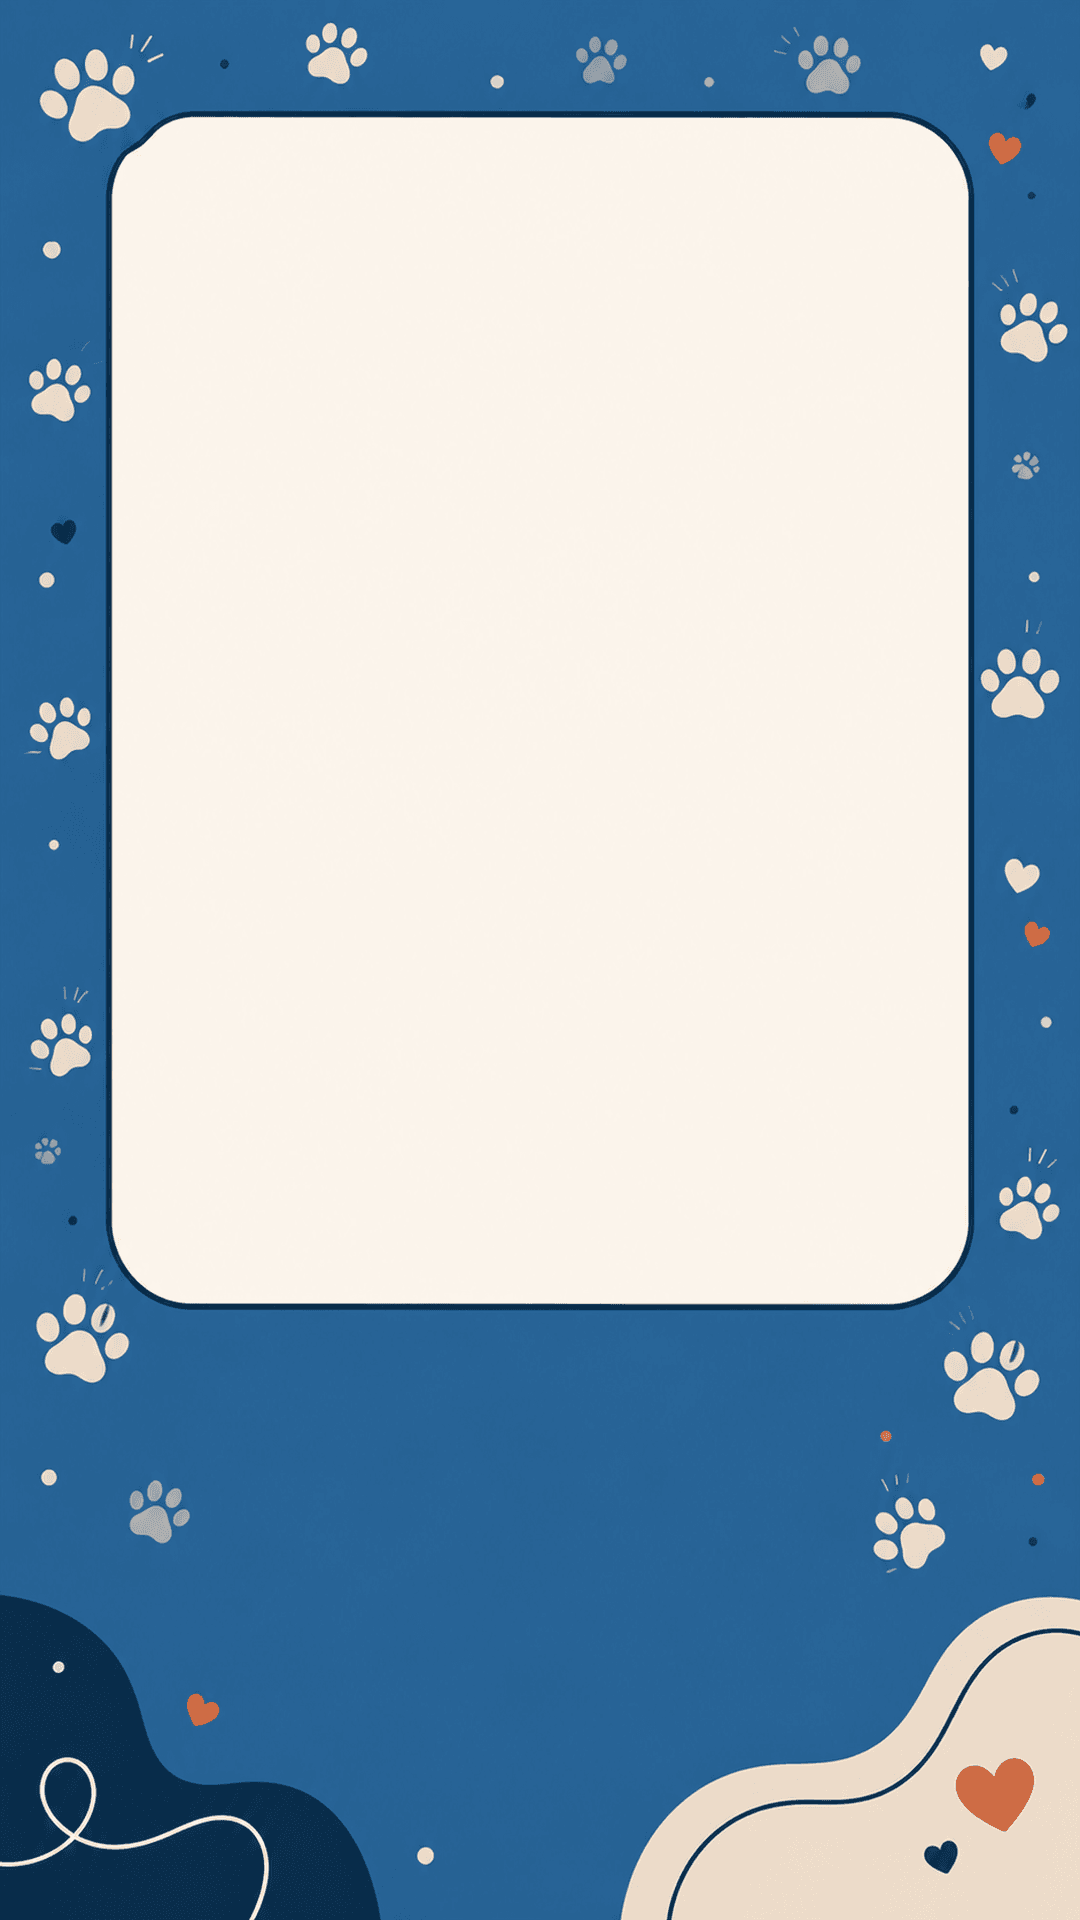
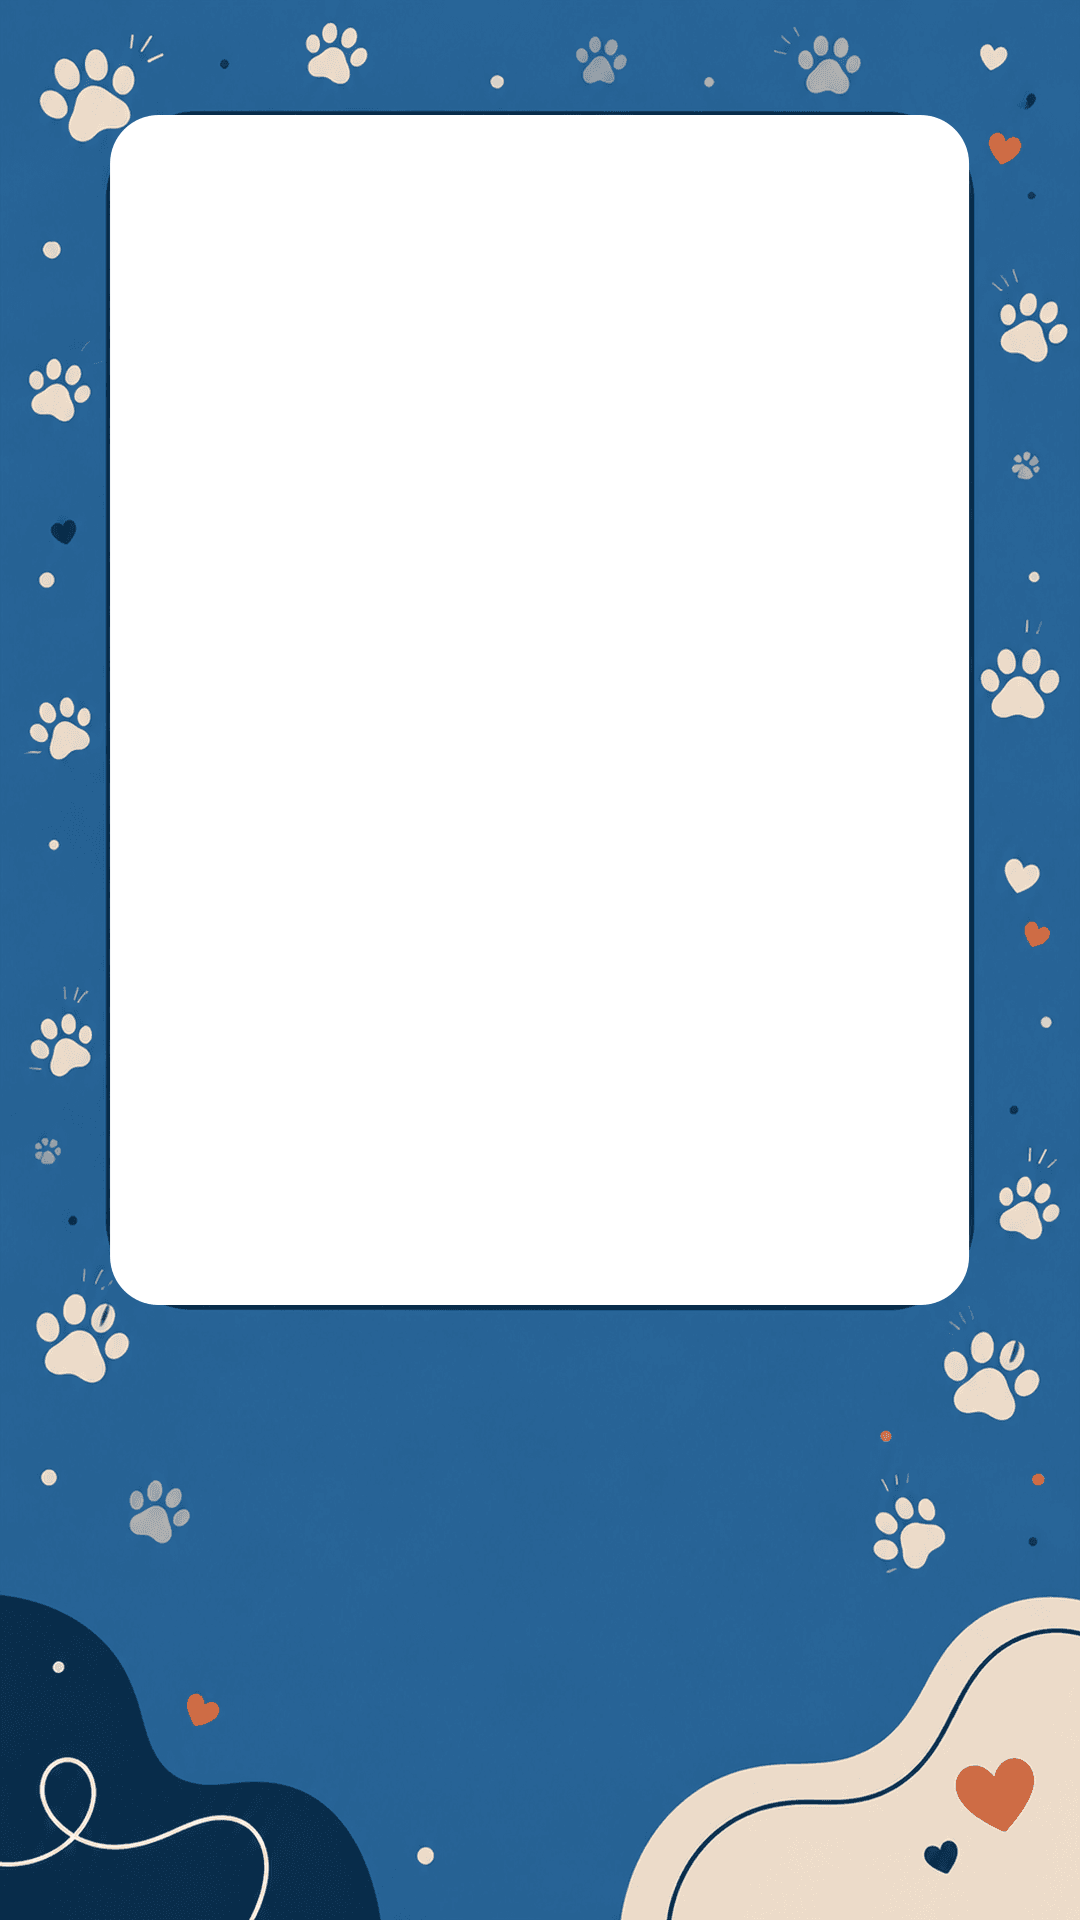
Compartilhamento: encaixe perfeito nos cantos, recorte manual, botao na pagina do pet
- Templates com arte agora tem transparencia REAL recortada no formato
  exato da moldura (via sharp, blend dest-out) - a foto do pet fica
  desenhada atras e o PNG do template por cima, entao o encaixe nos
  cantos e sempre perfeito, sem depender de clipping calculado
- react-easy-crop: usuario arrasta/zoom pra escolher a area da propria
  foto antes de gerar a imagem; aspect ratio calculado por template
  (getSlotAspect), volta pro passo de recorte se trocar de template
- ShareCard vira reutilizavel (title/subtitle/continueLabel opcionais)
- Botao "Compartilhar" visivel pra qualquer visitante em /pet/:id,
  nao so logo apos cadastrar - abre o mesmo fluxo num modal

diff --git a/src/components/ShareCard.jsx b/src/components/ShareCard.jsx
@@ -1,23 +1,43 @@
 import { useEffect, useState } from 'react'
+import Cropper from 'react-easy-crop'
 import Button from './Button'
 import Chip from './Chip'
-import { generateShareImage, SHARE_TEMPLATES } from '../lib/shareImage'
+import { generateShareImage, getSlotAspect, SHARE_TEMPLATES } from '../lib/shareImage'
 
-function ShareCard({ pet, onContinue }) {
+function ShareCard({ pet, title = 'Compartilhe nas redes', subtitle, continueLabel, onContinue }) {
   const [templateId, setTemplateId] = useState(SHARE_TEMPLATES[0].id)
+  const [stage, setStage] = useState('crop') // 'crop' | 'preview'
+
+  const [crop, setCrop] = useState({ x: 0, y: 0 })
+  const [zoom, setZoom] = useState(1)
+  const [croppedAreaPixels, setCroppedAreaPixels] = useState(null)
+
   const [previewUrl, setPreviewUrl] = useState(null)
   const [blob, setBlob] = useState(null)
-  const [loading, setLoading] = useState(true)
+  const [loading, setLoading] = useState(false)
   const [error, setError] = useState(null)
   const [shareError, setShareError] = useState(null)
 
+  // Trocar de template pode mudar a proporção do recorte — volta pro passo de recorte.
+  function handleTemplateChange(id) {
+    setTemplateId(id)
+    setCrop({ x: 0, y: 0 })
+    setZoom(1)
+    setStage('crop')
+  }
+
+  function handleGenerate() {
+    setStage('preview')
+  }
+
   useEffect(() => {
+    if (stage !== 'preview') return
     let cancelled = false
-    // eslint-disable-next-line react-hooks/set-state-in-effect -- feedback imediato de loading ao trocar template
+    // eslint-disable-next-line react-hooks/set-state-in-effect -- feedback imediato de loading ao gerar
     setLoading(true)
     setError(null)
 
-    generateShareImage({ pet, templateId })
+    generateShareImage({ pet, templateId, cropRect: croppedAreaPixels })
       .then((result) => {
         if (cancelled) return
         setBlob(result)
@@ -33,8 +53,8 @@ function ShareCard({ pet, onContinue }) {
     return () => {
       cancelled = true
     }
-    // eslint-disable-next-line react-hooks/exhaustive-deps -- `pet` é estável (vem do doc recém-criado)
-  }, [templateId])
+    // eslint-disable-next-line react-hooks/exhaustive-deps -- `pet` é estável
+  }, [stage])
 
   async function handleShare() {
     if (!blob) return
@@ -66,41 +86,82 @@ function ShareCard({ pet, onContinue }) {
   }
 
   return (
-    <div className="mx-auto max-w-[420px] pb-20 pt-9 text-center">
-      <div className="mb-2 text-sm font-semibold text-terracotta">Anúncio publicado!</div>
-      <h1 className="mb-3 font-display text-2xl text-blue-deep">Compartilhe {pet.name} nas redes</h1>
+    <div className="mx-auto max-w-[420px] pb-4 pt-2 text-center">
+      {subtitle && <div className="mb-2 text-sm font-semibold text-terracotta">{subtitle}</div>}
+      <h1 className="mb-3 font-display text-2xl text-blue-deep">{title}</h1>
       <p className="mb-6 text-[14.5px] text-ink-soft">
         Uma imagem prontinha pra postar no Instagram, Facebook ou WhatsApp — mais gente vê, mais rápido{' '}
         {pet.name} encontra um lar.
       </p>
 
-      <div className="mb-5 flex justify-center gap-2">
+      <div className="mb-5 flex flex-wrap justify-center gap-2">
         {SHARE_TEMPLATES.map((t) => (
-          <Chip key={t.id} active={templateId === t.id} onClick={() => setTemplateId(t.id)}>
+          <Chip key={t.id} active={templateId === t.id} onClick={() => handleTemplateChange(t.id)}>
             {t.label}
           </Chip>
         ))}
       </div>
 
-      <div className="mb-6 overflow-hidden rounded-2xl border border-line bg-white">
-        {loading && <div className="flex h-[360px] items-center justify-center text-ink-soft">Gerando imagem...</div>}
-        {error && <div className="flex h-[360px] items-center justify-center px-6 text-terracotta">{error}</div>}
-        {!loading && !error && previewUrl && <img src={previewUrl} alt={`Card de compartilhamento de ${pet.name}`} className="w-full" />}
-      </div>
+      {stage === 'crop' && (
+        <>
+          <p className="mb-3 text-[13px] text-ink-soft">Arraste e use o zoom pra escolher a parte da foto que aparece.</p>
+          <div className="relative mb-5 h-[360px] overflow-hidden rounded-2xl border border-line bg-black/5">
+            <Cropper
+              image={pet.image}
+              crop={crop}
+              zoom={zoom}
+              aspect={getSlotAspect(templateId)}
+              onCropChange={setCrop}
+              onZoomChange={setZoom}
+              onCropComplete={(_, pixels) => setCroppedAreaPixels(pixels)}
+            />
+          </div>
+          <input
+            type="range"
+            min={1}
+            max={3}
+            step={0.01}
+            value={zoom}
+            onChange={(e) => setZoom(Number(e.target.value))}
+            className="mb-6 w-full accent-blue-deep"
+            aria-label="Zoom"
+          />
+          <Button variant="primary" onClick={handleGenerate} className="w-full">
+            Gerar imagem →
+          </Button>
+        </>
+      )}
 
-      {shareError && <p className="mb-4 text-sm text-terracotta">{shareError}</p>}
+      {stage === 'preview' && (
+        <>
+          <div className="mb-6 overflow-hidden rounded-2xl border border-line bg-white">
+            {loading && <div className="flex h-[360px] items-center justify-center text-ink-soft">Gerando imagem...</div>}
+            {error && <div className="flex h-[360px] items-center justify-center px-6 text-terracotta">{error}</div>}
+            {!loading && !error && previewUrl && (
+              <img src={previewUrl} alt={`Card de compartilhamento de ${pet.name}`} className="w-full" />
+            )}
+          </div>
 
-      <div className="flex flex-col gap-2.5">
-        <Button variant="primary" onClick={handleShare} disabled={loading || !!error}>
-          📤 Compartilhar
-        </Button>
-        <Button variant="ghost" onClick={handleDownload} disabled={loading || !!error}>
-          ⬇ Baixar imagem
-        </Button>
-        <Button variant="ghost" onClick={onContinue}>
-          Ver meu anúncio →
-        </Button>
-      </div>
+          {shareError && <p className="mb-4 text-sm text-terracotta">{shareError}</p>}
+
+          <div className="flex flex-col gap-2.5">
+            <Button variant="primary" onClick={handleShare} disabled={loading || !!error}>
+              📤 Compartilhar
+            </Button>
+            <Button variant="ghost" onClick={handleDownload} disabled={loading || !!error}>
+              ⬇ Baixar imagem
+            </Button>
+            <Button variant="ghost" onClick={() => setStage('crop')}>
+              ← Ajustar recorte
+            </Button>
+            {onContinue && (
+              <Button variant="ghost" onClick={onContinue}>
+                {continueLabel ?? 'Fechar'}
+              </Button>
+            )}
+          </div>
+        </>
+      )}
     </div>
   )
 }

diff --git a/src/lib/shareImage.js b/src/lib/shareImage.js
@@ -18,6 +18,11 @@ const LIGHT_TEXT = {
   logo: '#FBF6EC',
 }
 
+// Nos templates com arte (background != null), a foto do pet é desenhada
+// ATRÁS do PNG do template — o PNG já tem um recorte transparente de verdade
+// no formato exato da moldura (ver scripts que geraram os arquivos em
+// src/assets/share-templates/), então o encaixe nos cantos é sempre perfeito
+// não importa o crop escolhido pelo usuário.
 export const SHARE_TEMPLATES = [
   {
     id: 'quadrado',
@@ -25,6 +30,7 @@ export const SHARE_TEMPLATES = [
     width: 1080,
     height: 1080,
     background: null,
+    slot: { x: 0.06, y: 0.06, w: 0.88, h: 0.58 },
     text: DARK_TEXT,
   },
   {
@@ -33,7 +39,6 @@ export const SHARE_TEMPLATES = [
     width: 1080,
     height: 1920,
     background: bgPaws,
-    // Coordenadas medidas por detecção de pixel da linha da moldura (ver test-share.html)
     slot: { x: 0.1019, y: 0.0599, w: 0.7954, h: 0.6198 },
     text: LIGHT_TEXT,
     // Este template tem patinhas decorativas correndo pelas laterais inteiras e um
@@ -61,6 +66,16 @@ export const SHARE_TEMPLATES = [
   },
 ]
 
+export function getTemplate(templateId) {
+  return SHARE_TEMPLATES.find((t) => t.id === templateId) ?? SHARE_TEMPLATES[0]
+}
+
+/** Proporção (largura/altura) da área da foto — usada como `aspect` do recorte interativo. */
+export function getSlotAspect(templateId) {
+  const { width, height, slot } = getTemplate(templateId)
+  return (slot.w * width) / (slot.h * height)
+}
+
 function loadImage(url) {
   return new Promise((resolve, reject) => {
     const img = new Image()
@@ -71,9 +86,16 @@ function loadImage(url) {
   })
 }
 
-// Desenha `img` cobrindo o retângulo (x, y, w, h), cropando o excesso
-// (equivalente a object-fit: cover).
-function drawCover(ctx, img, x, y, w, h) {
+// Desenha `img` cobrindo o retângulo de destino (x, y, w, h).
+// Se `cropRect` for passado (em pixels naturais da imagem original, formato
+// do react-easy-crop), desenha exatamente essa região — é o recorte escolhido
+// manualmente pelo usuário. Sem `cropRect`, cai num "cover" automático centralizado.
+function drawPhoto(ctx, img, x, y, w, h, cropRect) {
+  if (cropRect) {
+    ctx.drawImage(img, cropRect.x, cropRect.y, cropRect.width, cropRect.height, x, y, w, h)
+    return
+  }
+
   const imgRatio = img.width / img.height
   const boxRatio = w / h
   let sx, sy, sw, sh
@@ -103,43 +125,6 @@ function roundRect(ctx, x, y, w, h, r) {
   ctx.closePath()
 }
 
-function drawCodeTemplate(ctx, img, pet, width, height, text) {
-  ctx.fillStyle = '#FBF6EC'
-  ctx.fillRect(0, 0, width, height)
-
-  const margin = width * 0.06
-  const photoW = width - margin * 2
-  const photoH = height * 0.58
-  const photoX = margin
-  const photoY = margin
-
-  ctx.save()
-  roundRect(ctx, photoX, photoY, photoW, photoH, width * 0.03)
-  ctx.clip()
-  drawCover(ctx, img, photoX, photoY, photoW, photoH)
-  ctx.restore()
-
-  drawText(ctx, pet, text, photoX, photoY + photoH, width, height, margin, {})
-}
-
-function drawArtTemplate(ctx, bg, img, pet, template) {
-  const { width, height, slot, text } = template
-  ctx.drawImage(bg, 0, 0, width, height)
-
-  const slotX = slot.x * width
-  const slotY = slot.y * height
-  const slotW = slot.w * width
-  const slotH = slot.h * height
-
-  ctx.save()
-  roundRect(ctx, slotX, slotY, slotW, slotH, width * 0.045)
-  ctx.clip()
-  drawCover(ctx, img, slotX, slotY, slotW, slotH)
-  ctx.restore()
-
-  drawText(ctx, pet, text, slotX, slotY + slotH, width, height, width * 0.06, template)
-}
-
 function drawText(ctx, pet, text, textX, photoBottom, width, height, margin, options) {
   const textY = photoBottom + height * 0.07
   const centered = options.textAlign === 'center'
@@ -167,12 +152,12 @@ function drawText(ctx, pet, text, textX, photoBottom, width, height, margin, opt
 }
 
 /**
- * @param {{ pet: { name: string, city: string, image: string }, templateId: string }} params
+ * @param {{ pet: { name: string, city: string, image: string }, templateId: string, cropRect?: {x:number,y:number,width:number,height:number} }} params
  * @returns {Promise<Blob>}
  */
-export async function generateShareImage({ pet, templateId }) {
-  const template = SHARE_TEMPLATES.find((t) => t.id === templateId) ?? SHARE_TEMPLATES[0]
-  const { width, height } = template
+export async function generateShareImage({ pet, templateId, cropRect }) {
+  const template = getTemplate(templateId)
+  const { width, height, slot, text } = template
 
   await document.fonts.ready
   const [img, bg] = await Promise.all([loadImage(pet.image), template.background ? loadImage(template.background) : null])
@@ -182,11 +167,29 @@ export async function generateShareImage({ pet, templateId }) {
   canvas.height = height
   const ctx = canvas.getContext('2d')
 
+  const slotX = slot.x * width
+  const slotY = slot.y * height
+  const slotW = slot.w * width
+  const slotH = slot.h * height
+
   if (bg) {
-    drawArtTemplate(ctx, bg, img, pet, template)
+    // Foto atrás, template (com o recorte transparente) por cima — o encaixe
+    // nos cantos vem 100% do alpha do PNG, não de clipping calculado aqui.
+    ctx.fillStyle = '#FBF6EC'
+    ctx.fillRect(0, 0, width, height)
+    drawPhoto(ctx, img, slotX, slotY, slotW, slotH, cropRect)
+    ctx.drawImage(bg, 0, 0, width, height)
   } else {
-    drawCodeTemplate(ctx, img, pet, width, height, template.text)
+    ctx.fillStyle = '#FBF6EC'
+    ctx.fillRect(0, 0, width, height)
+    ctx.save()
+    roundRect(ctx, slotX, slotY, slotW, slotH, width * 0.03)
+    ctx.clip()
+    drawPhoto(ctx, img, slotX, slotY, slotW, slotH, cropRect)
+    ctx.restore()
   }
+
+  drawText(ctx, pet, text, slotX, slotY + slotH, width, height, width * 0.06, template)
 
   return new Promise((resolve, reject) => {
     canvas.toBlob((blob) => (blob ? resolve(blob) : reject(new Error('Falha ao gerar a imagem.'))), 'image/png')

diff --git a/src/pages/PetDetail.jsx b/src/pages/PetDetail.jsx
@@ -5,6 +5,7 @@ import Container from '../components/Container'
 import Button from '../components/Button'
 import StatusBadge from '../components/StatusBadge'
 import ConfirmDialog from '../components/ConfirmDialog'
+import ShareCard from '../components/ShareCard'
 import { deletePet, getPetById, PET_STATUSES, updatePetStatus } from '../lib/pets'
 import { useAuth } from '../context/useAuth'
 import { useFavorites } from '../context/useFavorites'
@@ -20,6 +21,7 @@ function PetDetail() {
   const [updatingStatus, setUpdatingStatus] = useState(false)
   const [deleting, setDeleting] = useState(false)
   const [confirmAction, setConfirmAction] = useState(null) // { type: 'status' | 'delete', value? }
+  const [shareOpen, setShareOpen] = useState(false)
 
   useEffect(() => {
     let cancelled = false
@@ -204,6 +206,10 @@ function PetDetail() {
         </div>
 
         <aside className="sticky top-6">
+          <Button variant="ghost" className="mb-4.5 w-full" onClick={() => setShareOpen(true)}>
+            📤 Compartilhar {pet.name}
+          </Button>
+
           {isOwner && (
             <div className="mb-4.5 rounded-2xl border border-line bg-white p-5.5">
               <h4 className="mb-3 text-[14.5px] font-bold text-blue-deep">Status do anúncio</h4>
@@ -287,6 +293,22 @@ function PetDetail() {
         onConfirm={handleDelete}
         onCancel={() => setConfirmAction(null)}
       />
+
+      {shareOpen && (
+        <div className="fixed inset-0 z-50 flex items-start justify-center overflow-y-auto bg-black/40 p-4 sm:items-center">
+          <div className="relative w-full max-w-[460px] rounded-2xl bg-cream p-6 shadow-[0_20px_40px_rgba(22,50,79,.2)]">
+            <button
+              type="button"
+              onClick={() => setShareOpen(false)}
+              className="absolute right-4 top-4 cursor-pointer text-xl text-ink-soft hover:text-blue-deep"
+              aria-label="Fechar"
+            >
+              ×
+            </button>
+            <ShareCard pet={pet} />
+          </div>
+        </div>
+      )}
     </Container>
   )
 }

diff --git a/src/pages/Cadastrar.jsx b/src/pages/Cadastrar.jsx
@@ -145,7 +145,13 @@ function Cadastrar() {
         <Helmet>
           <title>Anúncio publicado! — PetMatch</title>
         </Helmet>
-        <ShareCard pet={createdPet} onContinue={() => navigate(`/pet/${createdPet.id}`)} />
+        <ShareCard
+          pet={createdPet}
+          subtitle="Anúncio publicado!"
+          title={`Compartilhe ${createdPet.name} nas redes`}
+          continueLabel="Ver meu anúncio →"
+          onContinue={() => navigate(`/pet/${createdPet.id}`)}
+        />
       </Container>
     )
   }
